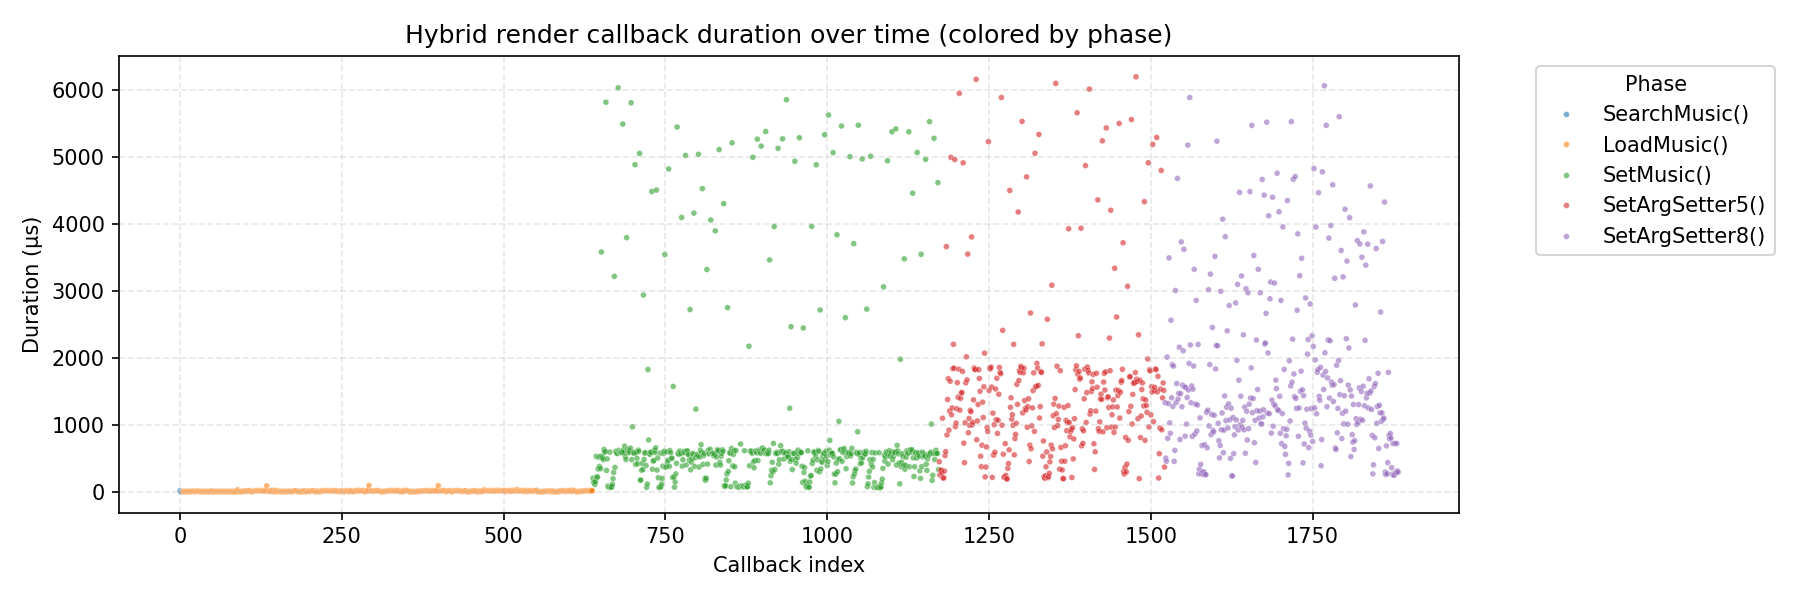
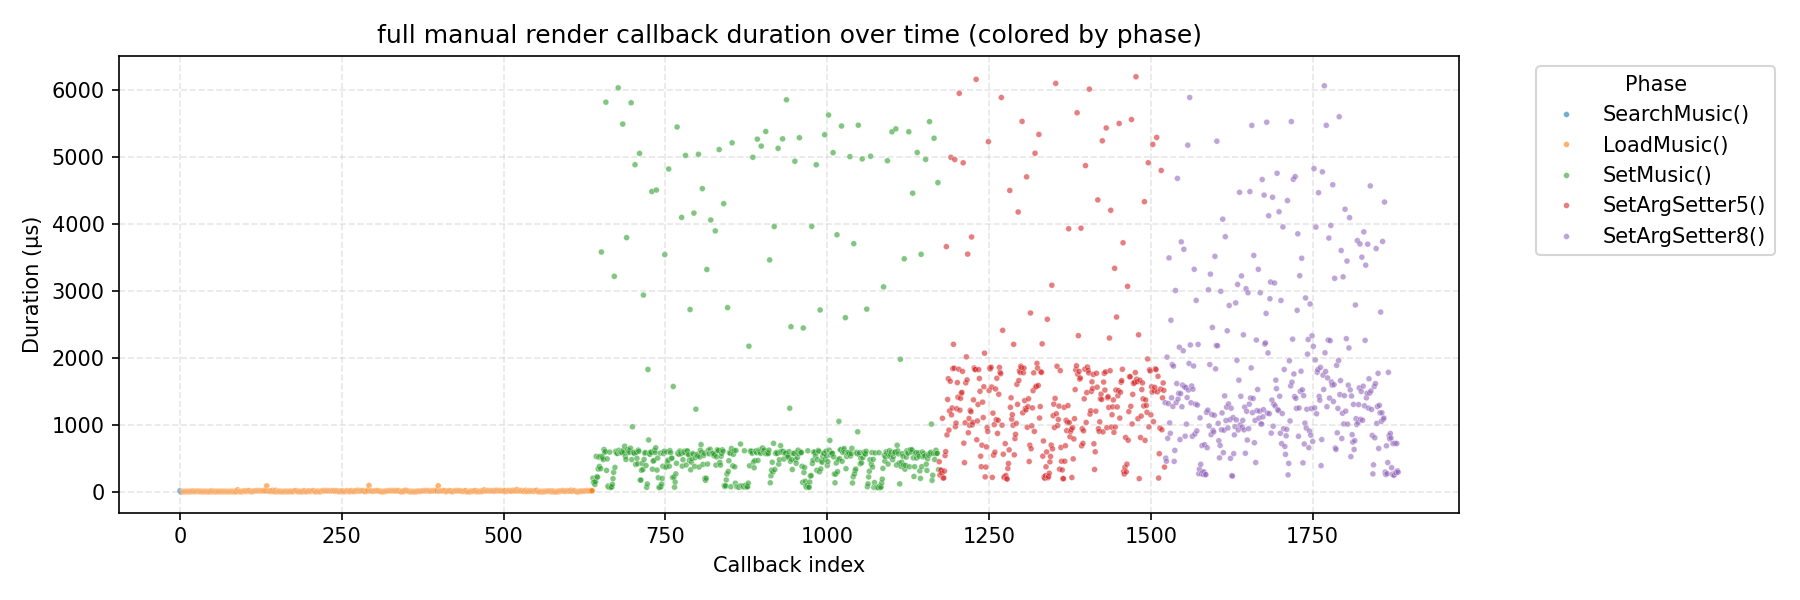
updated plot

Changed region(s): [[0.2178, 0.03, 0.6533, 0.09]]

diff --git a/DataExtract/visualize_csv.py b/DataExtract/visualize_csv.py
@@ -20,7 +20,7 @@ def load_callbacks_csv(path: str) -> pd.DataFrame:
 
 def plot_timeline(df: pd.DataFrame,
                   max_us: float | None = None,
-                  filename: str = "timeline_by_phase.png"):
+                  filename: str = "timeline_by_phase.png", title = "hybrid"):
     """
     x축: 콜백 index, y축: dur_us, 색: phase
     → 스파이크가 어느 phase 구간에서 자주 터지는지 한 번에 보기 좋음.
@@ -37,7 +37,7 @@ def plot_timeline(df: pd.DataFrame,
 
     plt.xlabel("Callback index")
     plt.ylabel("Duration (µs)")
-    plt.title("Hybrid render callback duration over time (colored by phase)")
+    plt.title(f"{title} render callback duration over time (colored by phase)")
 
     if max_us is not None:
         plt.ylim(0, max_us)
@@ -150,12 +150,18 @@ def main():
         default=10,
         help="boxplot / barplot에 포함할 phase의 최소 콜백 개수",
     )
+    parser.add_argument(
+        "--title",
+        type=str,
+        default="hybrid",
+        help="plot title",
+    )
     args = parser.parse_args()
     file_name = os.path.basename(args.csv)
     df = load_callbacks_csv(args.csv)
     print(df.head())
 
-    plot_timeline(df, max_us=args.max_us, filename=f"{file_name}_timeline_by_phase.png")
+    plot_timeline(df, max_us=args.max_us, filename=f"{file_name}_timeline_by_phase.png", title=args.title)
     plot_box_by_phase(df, min_count=args.min_count, filename=f"{file_name}_boxplot_by_phase.png")
     plot_bar_mean_by_phase(df, min_count=args.min_count, filename=f"{file_name}_bar_mean_by_phase.png")
 
